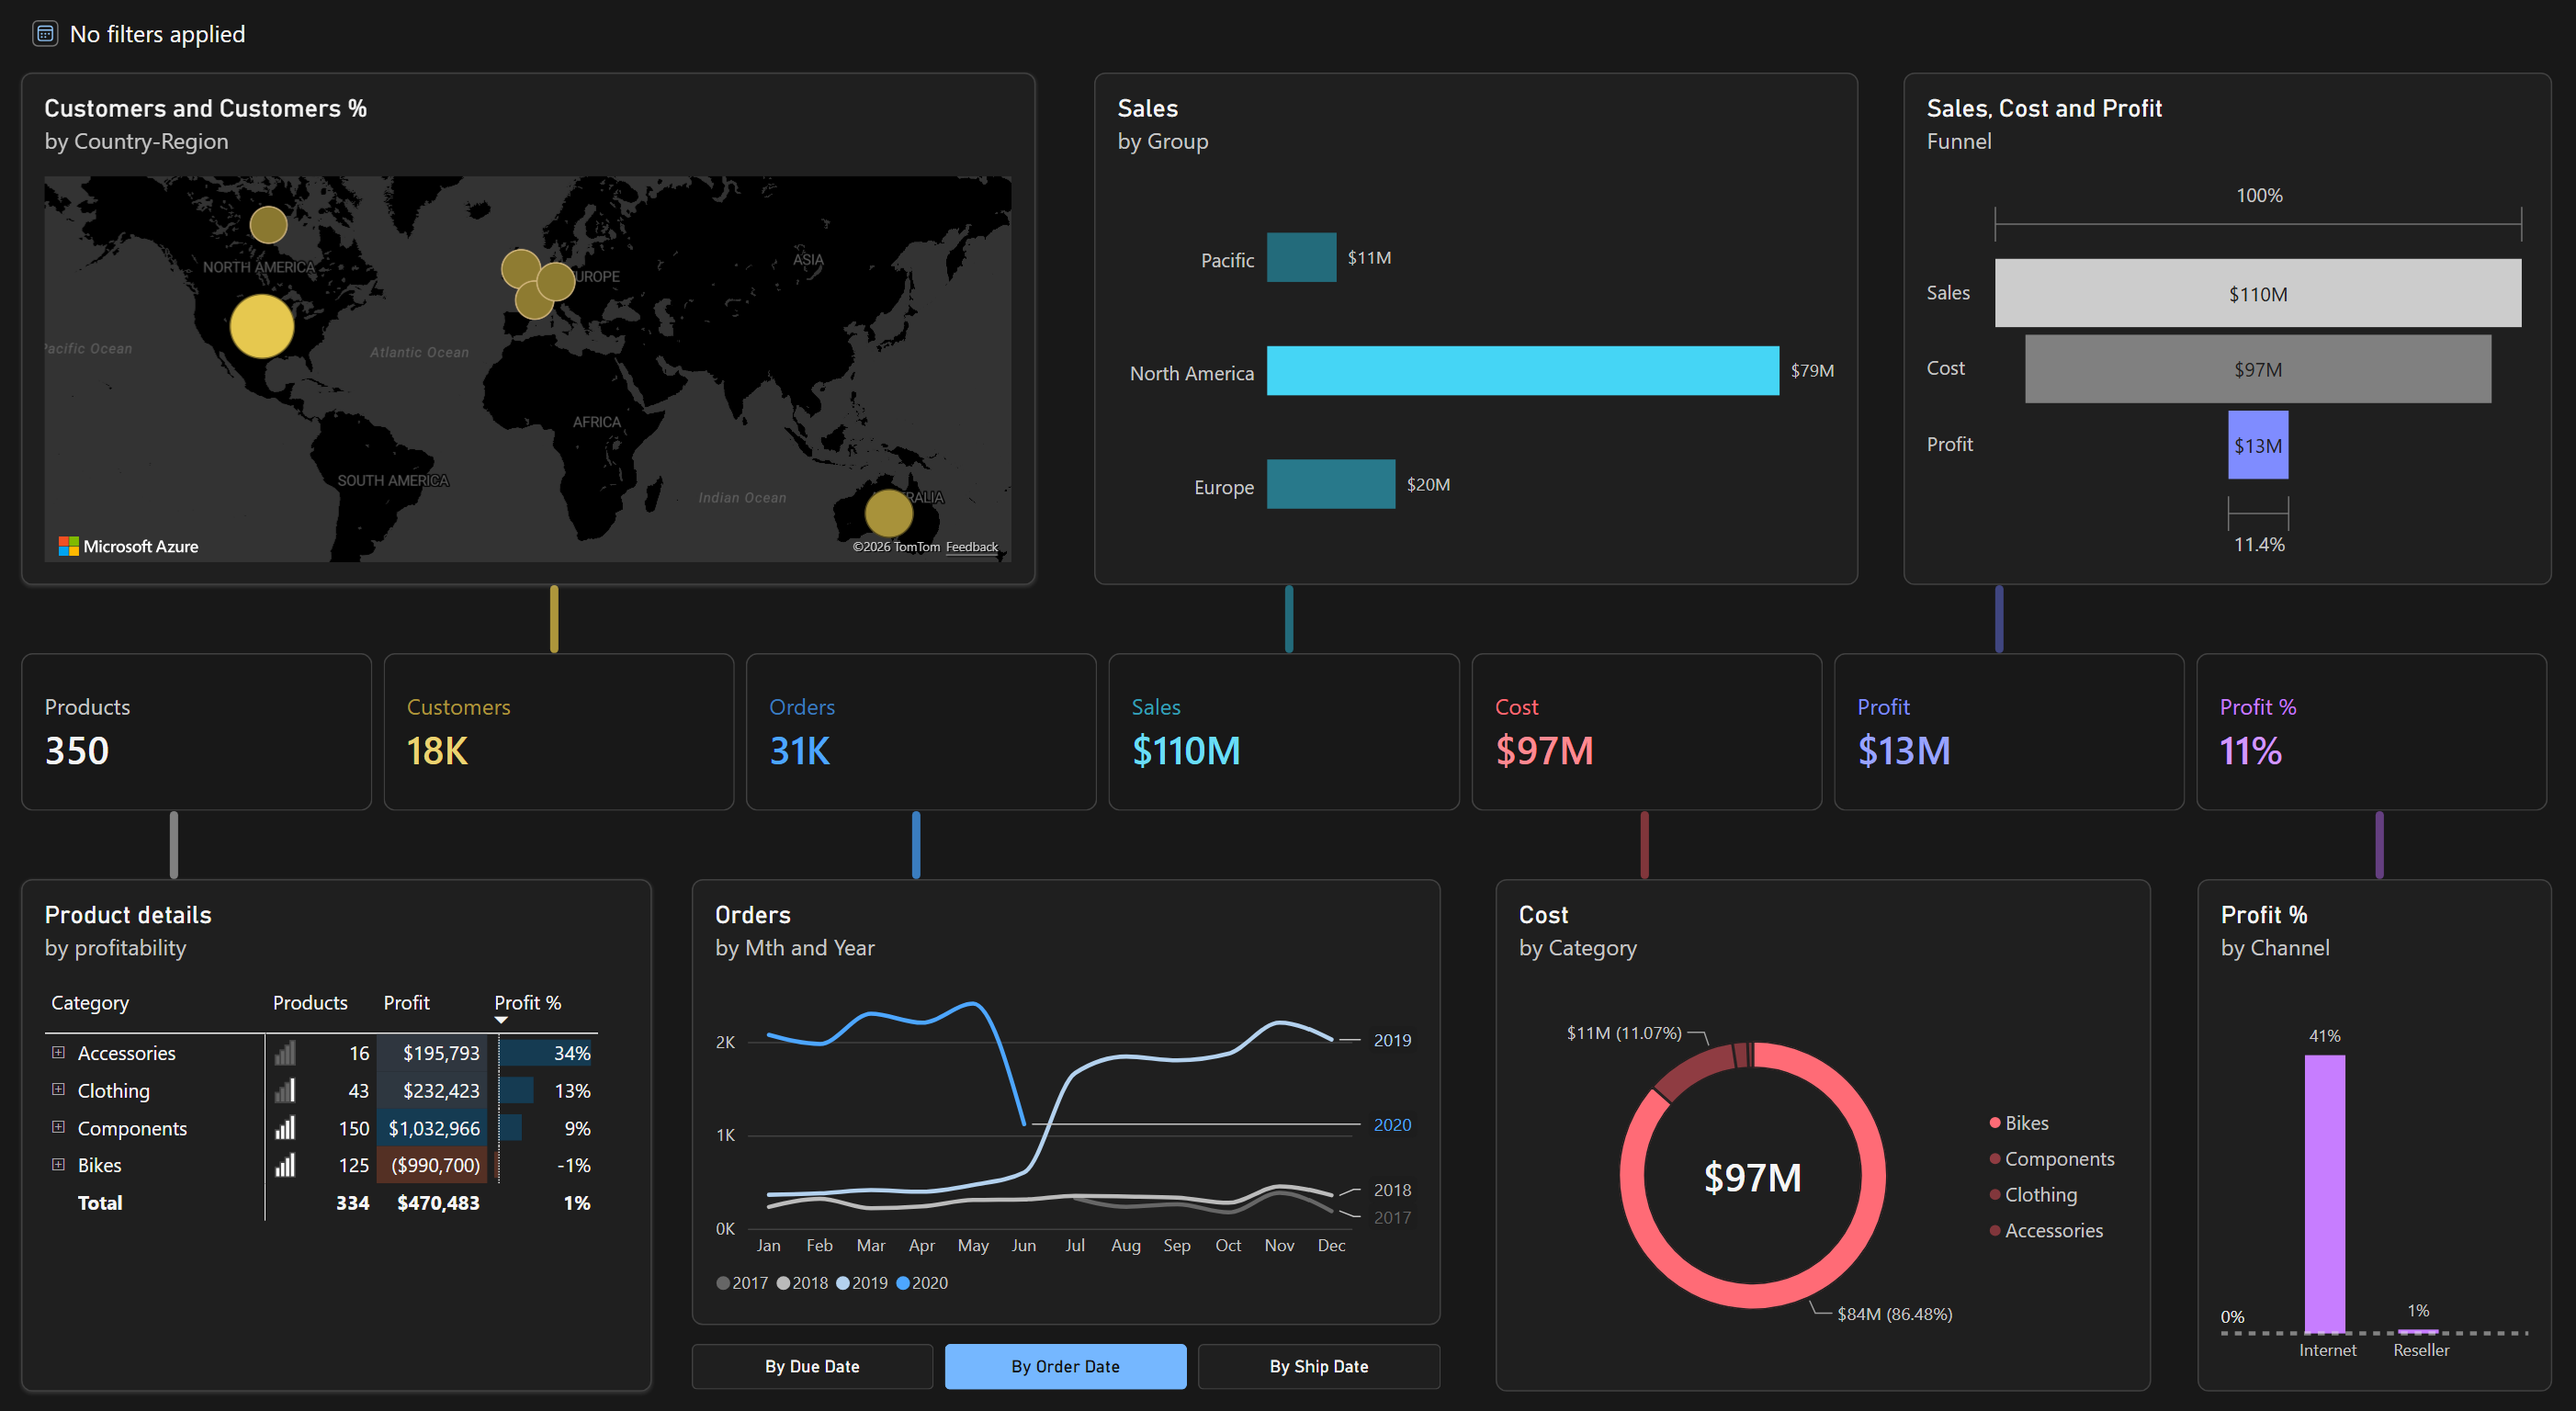
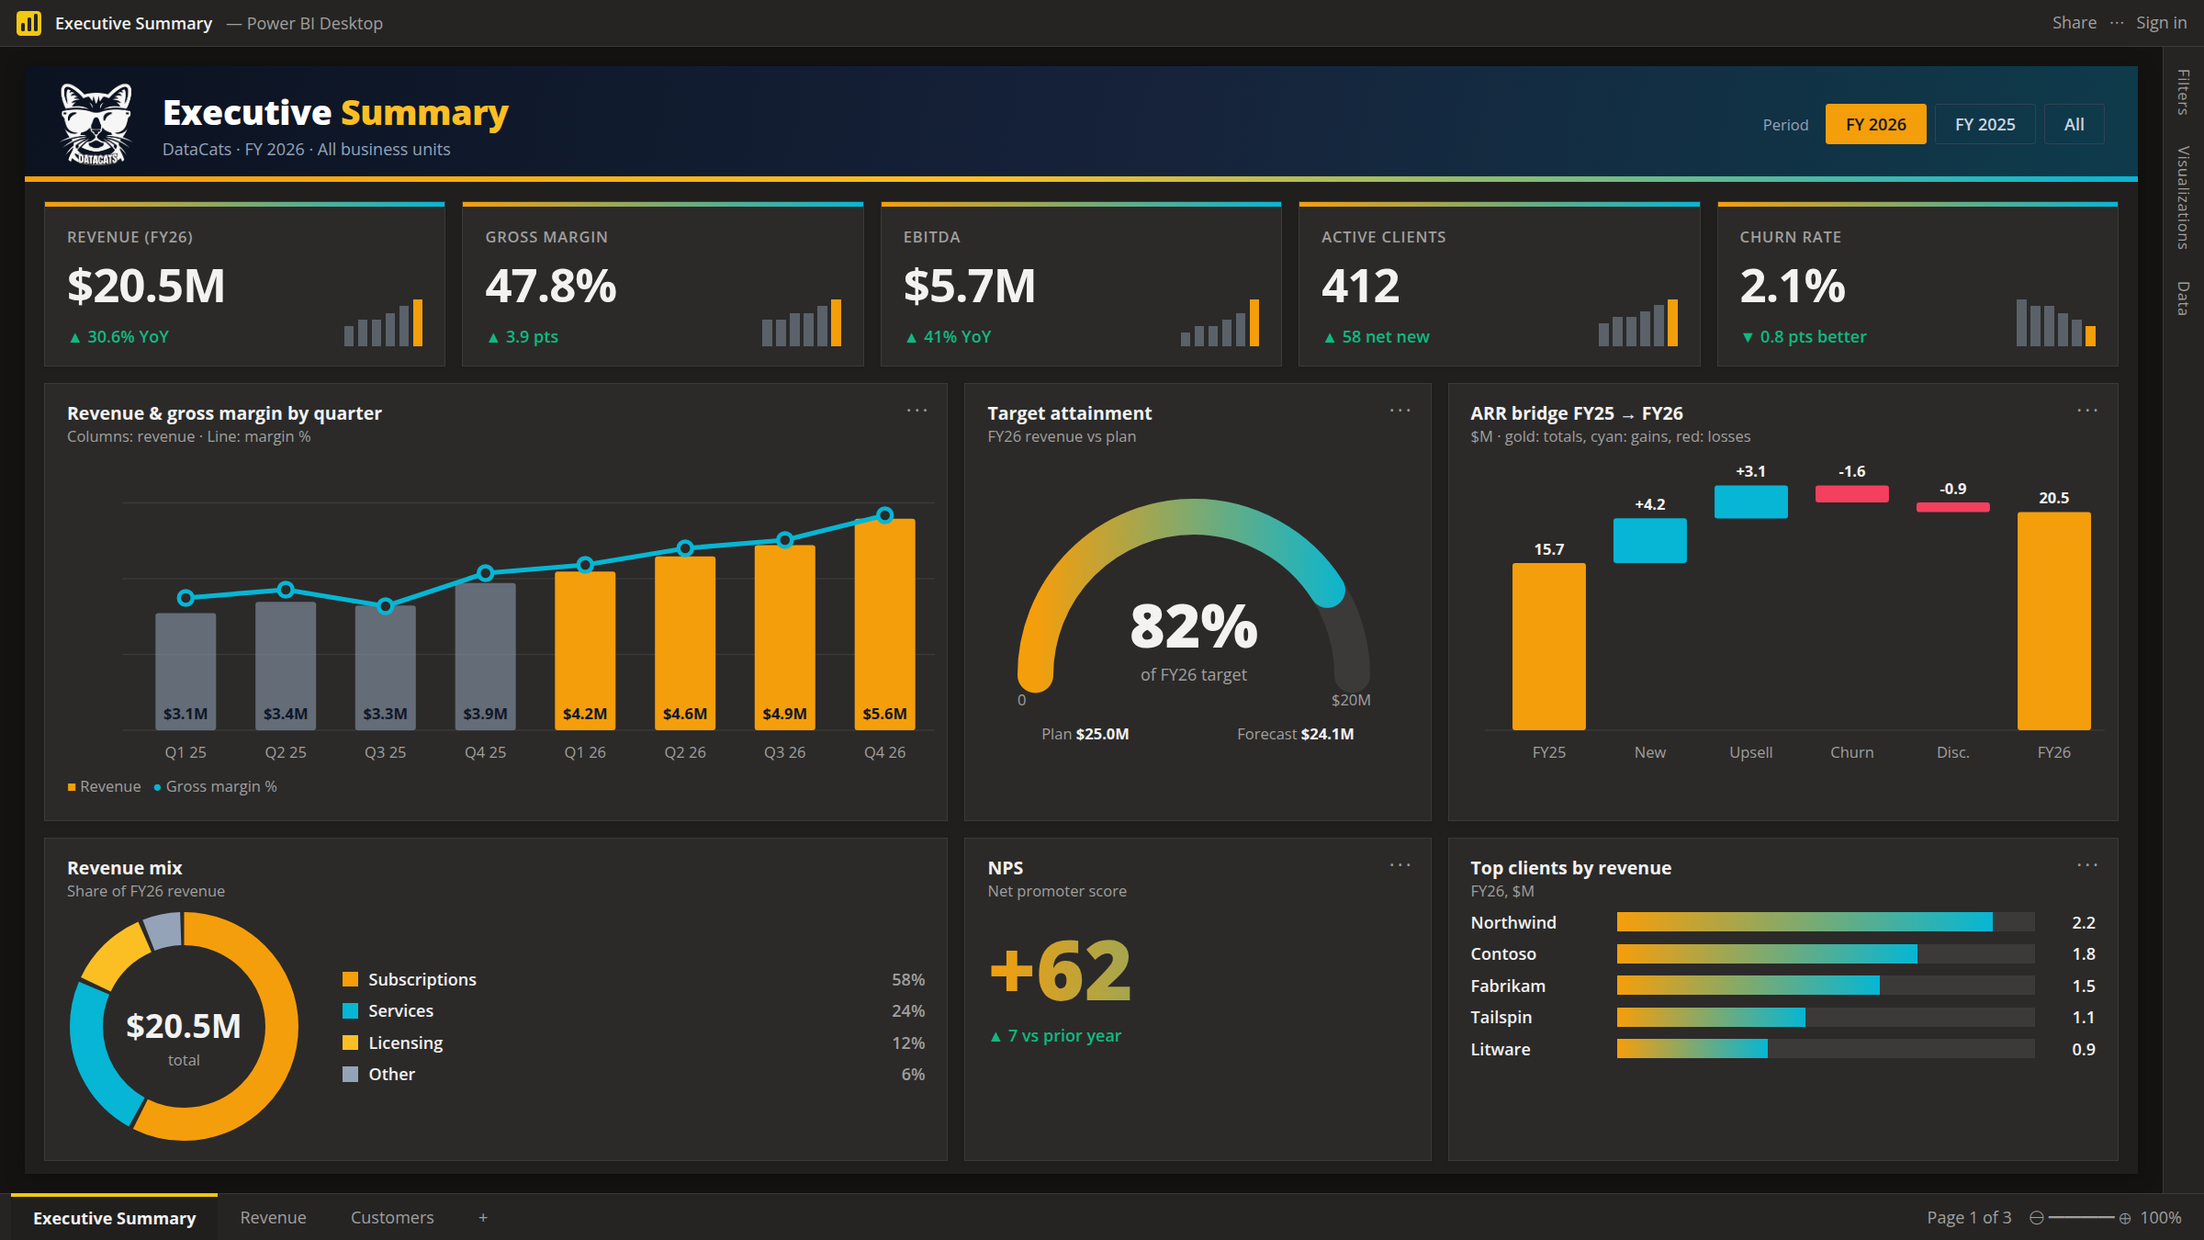
Add DataCats-branded report samples to all six gallery slots; fixed-size zoom frame

diff --git a/datacats-web/src/pages/Presentation.tsx b/datacats-web/src/pages/Presentation.tsx
@@ -45,6 +45,8 @@ interface GalleryItem {
   color: string;
   lightImage?: string;
   darkImage?: string;
+  /** CSS aspect-ratio of the zoom frame (light image); keeps frame size fixed when toggling themes. */
+  frameAspect?: string;
 }
 
 const galleryItems: GalleryItem[] = [
@@ -55,10 +57,35 @@ const galleryItems: GalleryItem[] = [
     color: 'gold',
     lightImage: '/assets/img/samples/light-sample1.png',
     darkImage: '/assets/img/samples/dark-sample1.png',
+    frameAspect: '16 / 9',
   },
-  { id: 2, title: 'Sales Pipeline', platform: 'Tableau', color: 'cyan' },
-  { id: 3, title: 'Financial Workbook', platform: 'Excel', color: 'green' },
-  { id: 4, title: 'Warehouse Metrics', platform: 'BigQuery', color: 'slate' },
+  {
+    id: 2,
+    title: 'Sales Pipeline',
+    platform: 'Tableau',
+    color: 'cyan',
+    lightImage: '/assets/img/samples/light-sample3.png',
+    darkImage: '/assets/img/samples/dark-sample3.png',
+    frameAspect: '16 / 9',
+  },
+  {
+    id: 3,
+    title: 'Financial Workbook',
+    platform: 'Excel',
+    color: 'green',
+    lightImage: '/assets/img/samples/light-sample5.png',
+    darkImage: '/assets/img/samples/dark-sample5.png',
+    frameAspect: '16 / 9',
+  },
+  {
+    id: 4,
+    title: 'Warehouse Metrics',
+    platform: 'BigQuery',
+    color: 'slate',
+    lightImage: '/assets/img/samples/light-sample6.png',
+    darkImage: '/assets/img/samples/dark-sample6.png',
+    frameAspect: '16 / 9',
+  },
   {
     id: 5,
     title: 'Client Journey',
@@ -66,8 +93,17 @@ const galleryItems: GalleryItem[] = [
     color: 'gold',
     lightImage: '/assets/img/samples/light-sample2.png',
     darkImage: '/assets/img/samples/dark-sample2.png',
+    frameAspect: '16 / 9',
   },
-  { id: 6, title: 'Utilization Heatmap', platform: 'Tableau', color: 'cyan' },
+  {
+    id: 6,
+    title: 'Utilization Heatmap',
+    platform: 'Tableau',
+    color: 'cyan',
+    lightImage: '/assets/img/samples/light-sample4.png',
+    darkImage: '/assets/img/samples/dark-sample4.png',
+    frameAspect: '16 / 9',
+  },
 ];
 
 export function Presentation() {
@@ -302,11 +338,16 @@ export function Presentation() {
                 <X className="h-5 w-5" />
               </button>
               {selectedImage ? (
-                <img
-                  src={selectedImage}
-                  alt={`${selectedItem.title} (${selectedItem.platform} ${activeZoomedTheme} theme preview)`}
-                  className="w-full rounded-xl border border-slate-200/60 shadow-lg dark:border-slate-700/60"
-                />
+                <div
+                  className="w-full overflow-hidden rounded-xl border border-slate-200/60 shadow-lg dark:border-slate-700/60"
+                  style={{ aspectRatio: selectedItem.frameAspect }}
+                >
+                  <img
+                    src={selectedImage}
+                    alt={`${selectedItem.title} (${selectedItem.platform} ${activeZoomedTheme} theme preview)`}
+                    className="h-full w-full object-contain"
+                  />
+                </div>
               ) : (
                 <>
                   <div className="aspect-video rounded-xl bg-gradient-to-br from-slate-100 to-slate-200 dark:from-slate-800 dark:to-slate-900" />

diff --git a/docs/current_work.md b/docs/current_work.md
@@ -40,3 +40,8 @@ The site and lead backend run locally and are deployed to Namecheap cPanel via G
 - 2026-10-23: installed frontend (`datacats-web/`) and backend (`server/`) dependencies; verified lint, production build, and backend tests; copied brand assets from `assets/img/` to `datacats-web/public/assets/img/` and anchored `/assets/` in `datacats-web/.gitignore` so `public/assets/` is not ignored; started local Vite dev server and dry-run Express backend; added `.github/workflows/deploy.yml` for automated GitHub Actions deployment to Namecheap cPanel over SSH; added `.version` (`VERSION=1.0`) and automatic CI/CD deployment version bumping displayed in `Footer.tsx`.
 - 2026-10-24: copied light/dark Power BI sample screenshots (`light-sample1.png`, `dark-sample1.png`) into `datacats-web/public/assets/img/samples/`; updated `Presentation.tsx` so report samples default to opposite contrast (dark reports in light site theme, light reports in dark site theme), added a section-level report theme toggle under "Report Samples" (`Use the theme switcher to preview light/dark versions of the reports.`) that switches all reports, added a temporary modal-only theme toggle (`View Light Version` / `View Dark Version`) inside the zoomed-in report preview, and documented the workflow in `docs/report-samples-workflow.md`.
 - 2026-10-25: verified Microsoft Graph `Mail.Send` credentials against `josh@datacats.ca`; hardened `server/src/graph.js`, `server/src/app.js`, and `server/app.js` to accept both `UPPER_SNAKE_CASE` and camelCase env vars (`TENANT_ID`/`tenantId`, `CLIENT_ID`/`clientId`, `CLIENT_SECRET`/`clientSecret`, `MAIL_FROM`/`mailFrom`), strip accidental quotes/commas, default `MAIL_FROM` to `josh@datacats.ca`, allow both `datacats.ca` and `www.datacats.ca` in `ALLOWED_ORIGIN`, and report `mailConfigured` in `/api/health`; added second Power BI sample report screenshots (`light-sample2.png`, `dark-sample2.png`) to the bottom-center `Client Journey` gallery slot in `Presentation.tsx`.
+- 2026-10-27: added Tableau samples (`light/dark-sample3.png` → slot 2 `Sales Pipeline`, `light/dark-sample4.png` → slot 6 `Utilization Heatmap`) and Excel sample (`light/dark-sample5.png` → slot 3 `Financial Workbook`); renamed from `*-tableu-*`/`*-excel-*` source names to the `sample<N>` convention and copied to `datacats-web/public/assets/img/samples/`.
+- 2026-10-27: built an original BigQuery-style "Warehouse Metrics" mock dashboard (light/dark, 2400x1350) and added it as `light/dark-sample6.png` in slot 4.
+- 2026-10-27: replaced the Tableau samples (`light/dark-sample3.png`, `light/dark-sample4.png`) with original DataCats-branded mock dashboards (Sales Pipeline Command Center, Utilization Heatmap; 2400x1350, 16/9 frame); removed the old `*-tableu-*` sources.
+- 2026-10-27: replaced Power BI (`sample1`, `sample2`) and Excel (`sample5`) screenshots with original DataCats-branded mocks that keep each app's chrome (Power BI Desktop canvas/page tabs, Excel ribbon/formula bar/grid); all 6 samples now use a 16/9 frame.
+- 2026-10-27: re-rendered the BigQuery sample (`light/dark-sample6.png`) with DataCats branding (logo header band, gold/cyan palette, Inter/JetBrains Mono).

diff --git a/docs/report-samples-workflow.md b/docs/report-samples-workflow.md
@@ -29,12 +29,12 @@ Add `lightImage` and `darkImage` to the target entry in `galleryItems` in `datac
 ### Current Gallery Slots (`galleryItems`)
 | `id` | Grid Position (Desktop 3x2) | Default Title | Platform | Badge Color | Status |
 |------|-----------------------------|---------------|----------|-------------|--------|
-| `1` | Top-left | `Executive Summary` | `Power BI` | `gold` | Uses `light-sample1.png` / `dark-sample1.png` |
-| `2` | Top-center | `Sales Pipeline` | `Tableau` | `cyan` | Placeholder |
-| `3` | Top-right | `Financial Workbook` | `Excel` | `green` | Placeholder |
-| `4` | Bottom-left | `Warehouse Metrics` | `BigQuery` | `slate` | Placeholder |
-| `5` | Bottom-center | `Client Journey` | `Power BI` | `gold` | Uses `light-sample2.png` / `dark-sample2.png` |
-| `6` | Bottom-right | `Utilization Heatmap` | `Tableau` | `cyan` | Placeholder |
+| `1` | Top-left | `Executive Summary` | `Power BI` | `gold` | Uses `light-sample1.png` / `dark-sample1.png` (original DataCats-branded mock) |
+| `2` | Top-center | `Sales Pipeline` | `Tableau` | `cyan` | Uses `light-sample3.png` / `dark-sample3.png` (original DataCats-branded mock) |
+| `3` | Top-right | `Financial Workbook` | `Excel` | `green` | Uses `light-sample5.png` / `dark-sample5.png` (original DataCats-branded mock) |
+| `4` | Bottom-left | `Warehouse Metrics` | `BigQuery` | `slate` | Uses `light-sample6.png` / `dark-sample6.png` (original DataCats-branded BigQuery-style mock) |
+| `5` | Bottom-center | `Client Journey` | `Power BI` | `gold` | Uses `light-sample2.png` / `dark-sample2.png` (original DataCats-branded mock) |
+| `6` | Bottom-right | `Utilization Heatmap` | `Tableau` | `cyan` | Uses `light-sample4.png` / `dark-sample4.png` (original DataCats-branded mock) |
 
 ## 3. Report Theme Behavior (Preserve as-is)
 
